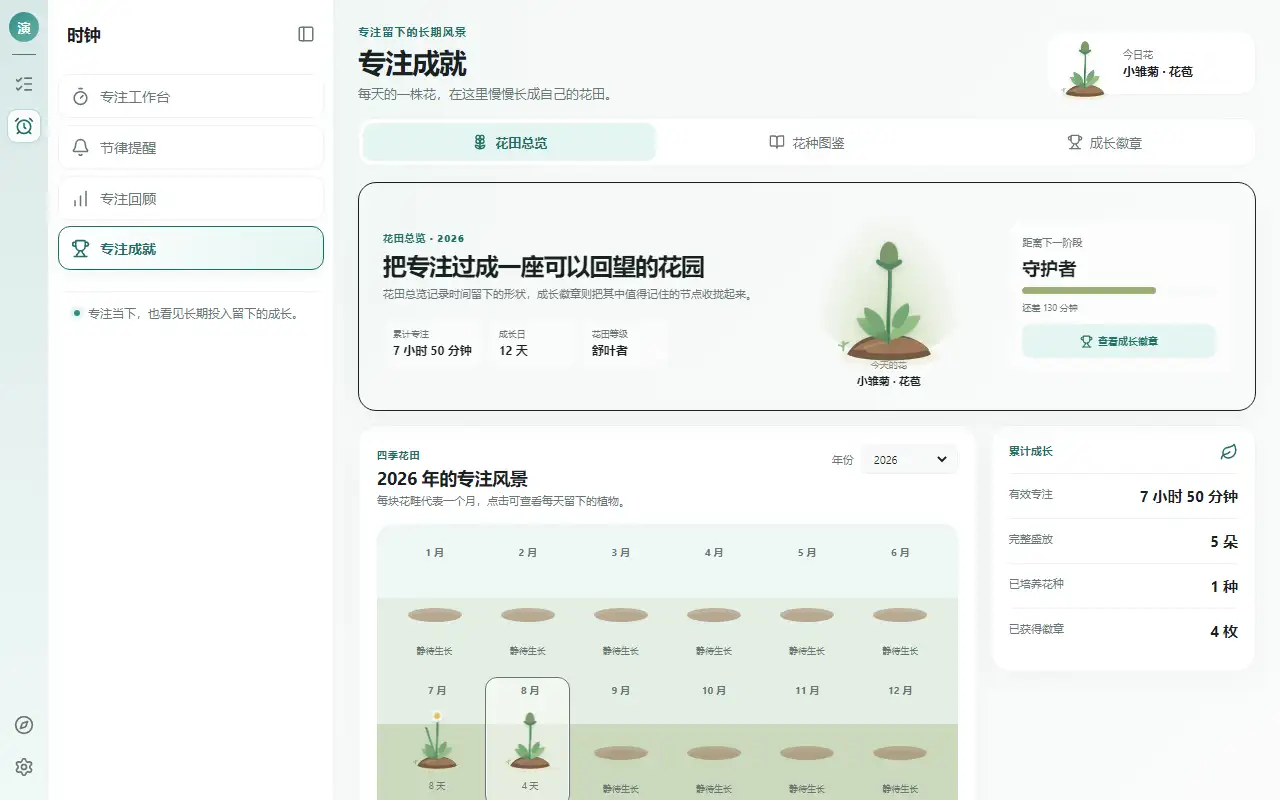
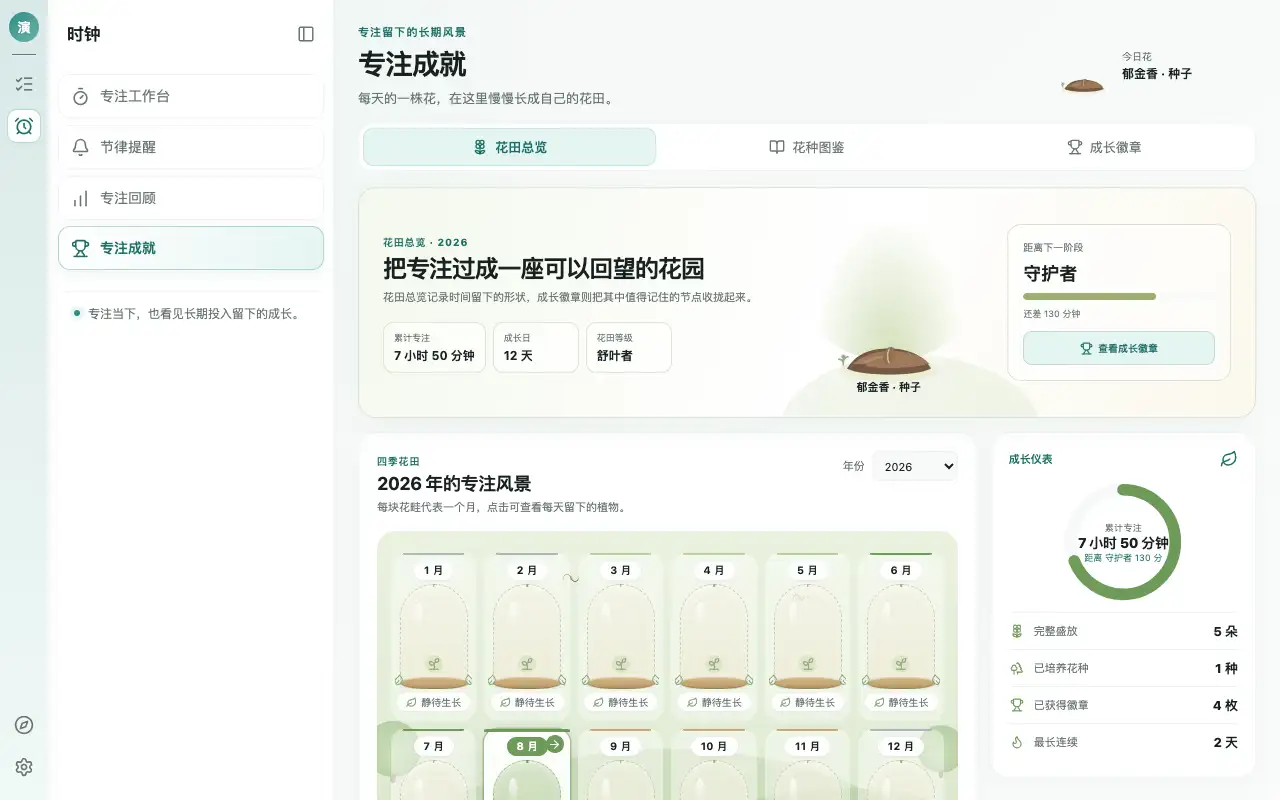
chore(screenshots): 重拍 focus-history/achievement/space-management 三张过期图
专注回顾（ECharts + 概览/管理双 tab）、专注成就（温室化年/月格 + 累计成长环形图 + 近期足迹）以及空间管理（含 v0.4.6 新增的'历史迁移备份'功能）三张截图都是 v0.4.5 时代留下的，跟当前 UI 已经对不上号。

本次重拍：
- platform.js 的 buildWebStorageMock() 补 1-2 条迁移备份示例，让 space-management 截图能展示新功能
- 新增 scripts/capture-stale-screenshots.mjs，只拍这 3 张过期图，避免重生成其他 23 张未变更截图污染提交
- 其他 23 张截图的字节内容保持不变

diff --git a/src/services/platform.js b/src/services/platform.js
@@ -251,7 +251,11 @@ function buildWebStorageMock() {
   const quarantinedAttachments = [
     { id: 'web-quarantine-1', relativePath: 'attachments/2024-06/note.txt', name: '旧笔记.txt', sizeBytes: 6291, kind: 'file', quarantinedAt: '2024-06-21T15:00:00.000Z' }
   ]
-  const totalBytes = 12_847_503
+  const migrationBackups = [
+    { id: 'web-migration-1', name: 'simple-to-do-0.4.3-to-0.4.4.bak', sizeBytes: 1_512_840, modifiedAt: '2026-07-04T09:12:00.000Z' },
+    { id: 'web-migration-2', name: 'simple-to-do-0.4.4-to-0.4.5.bak', sizeBytes: 1_248_196, modifiedAt: '2026-08-06T11:30:00.000Z' }
+  ]
+  const totalBytes = 15_608_539
   const attachmentBytes = orphanAttachments.reduce((sum, item) => sum + item.sizeBytes, 0)
     + quarantinedAttachments.reduce((sum, item) => sum + item.sizeBytes, 0)
     + 9_822_270
@@ -270,8 +274,8 @@ function buildWebStorageMock() {
     referencedFileBytes: 1_443_120,
     profileBytes: 412_870,
     backupBytes: 2_148_006,
-    migrationBackupBytes: 0,
-    migrationBackups: [],
+    migrationBackupBytes: migrationBackups.reduce((sum, item) => sum + item.sizeBytes, 0),
+    migrationBackups,
     otherBytes: 102_502,
     missingReferences: []
   }
